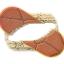
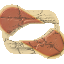
fix(core): bake_age gives the aged preview over the painting; hidden groups do not mark paint
bake_age committed the aged paint without the paper, which laid Normal over
the unaged painting turned a Multiply glaze or translucent wash into its own
colour. bakeAgedPixels keeps the paint's alpha (raised where needed) and
solves the colour over the unaged composite, in TS and Swift.

The ageing field and painted layer count walked into hidden groups, and with
layerIds used every layer; both now use only the layers that are drawn.

diff --git a/packages/core/tests/paint-time-machine.test.ts b/packages/core/tests/paint-time-machine.test.ts
@@ -164,14 +164,90 @@ describe('painting time machine: ageing, X-ray view & scraper brush', () => {
       expect(aged.data[i + 2]).toBeGreaterThan(Math.round(bottom[2] * top[2] * 255) + 8);
     }
 
-    const before = c.compositePixels({ paper: false, wet: 'dried', age: true });
+    const baked = await call('bake_age', {});
+    expect(baked.isError).toBe(false);
+    // With years back at 0, the painting with the baked layer on top is the aged preview.
+    const after = c.compositePixels({ paper: true });
+    for (const [x, y] of [[3, 4], [31, 20], [60, 44]]) {
+      const i = (y * 64 + x) * 4;
+      for (let k = 0; k < 3; k++) expect(Math.abs(after.data[i + k] - aged.data[i + k])).toBeLessThanOrEqual(1);
+    }
+  });
+
+  it('bake_age over the paper: a translucent wash and a Multiply glaze bake to what the preview showed', async () => {
+    const { c, call } = setup(64, 48);
+    const wash = c.getActiveLayer()!.id;
+    expect((await call('fill_layer', { layerId: wash, color: '#c03020', opacity: 0.4 })).isError).toBe(false);
+    const glaze = (await call('add_layer', { name: 'Glaze' })).data as { id: string };
+    expect((await call('update_layer', { layerId: glaze.id, blend: 'multiply' })).isError).toBe(false);
+    const hard = { tip: { size: 14, hardness: 1, opacity: 1, flow: 1, spacing: 0.05, pressureSize: false, pressureOpacity: false, smoothing: 0 }, grain: 0 };
+    c.paintStroke({ brushId: 'ink-pen', brush: hard, points: line(6, 24, 58, 24, 12), color: '#2050c0' });
+    expect((await call('set_age', { years: 350, varnish: 0.9, cracks: 0.6, fading: 0.7, dust: 0.5, seed: 9 })).isError).toBe(false);
+    const preview = c.compositePixels({ paper: true, age: true });
     const baked = await call('bake_age', {});
     expect(baked.isError).toBe(false);
     const layer = c.getLayer((baked.data.layer as { id: string }).id) as PaintPixelLayer;
-    for (const [x, y] of [[3, 4], [31, 20], [60, 44]]) {
-      const i = (y * 64 + x) * 4;
-      expect(readPixel(layer.surface, x, y)).toEqual([...before.data.subarray(i, i + 4)]);
+    const after = c.compositePixels({ paper: true });
+    let worst = 0;
+    let glazed = 0;
+    let translucent = 0;
+    for (let y = 0; y < 48; y++) {
+      for (let x = 0; x < 64; x++) {
+        const i = (y * 64 + x) * 4;
+        const a = readPixel(layer.surface, x, y)[3];
+        // The wash covers the canvas: the baked layer keeps the paint's alpha, not the paper's.
+        if (y < 10) expect(a).toBeGreaterThanOrEqual(101);
+        if (a === 0) continue;
+        if (a === 255) glazed++;
+        else translucent++;
+        for (let k = 0; k < 3; k++) worst = Math.max(worst, Math.abs(after.data[i + k] - preview.data[i + k]));
+      }
     }
+    expect(glazed).toBeGreaterThan(0);
+    // Most of the wash stays a translucent layer (the paper shows through it, not baked in).
+    expect(translucent).toBeGreaterThan(64 * 48 * 0.5);
+    // Solved over the paper (rounding aside), not the wash's colour on its own laid Normal on top.
+    expect(worst).toBeLessThanOrEqual(2);
+  });
+
+  it('ages only the paint that is drawn: hidden groups and unpicked layers do not mark the paper as painted', async () => {
+    const { c, call } = setup(96, 64);
+    const hard = { tip: { size: 10, hardness: 1, opacity: 1, flow: 1, spacing: 0.05, pressureSize: false, pressureOpacity: false, smoothing: 0 }, grain: 0 };
+    const shown = c.getActiveLayer()!.id;
+    c.paintStroke({ brushId: 'ink-pen', brush: hard, points: line(8, 12, 88, 12, 12), color: '#203040' });
+    const group = (await call('add_layer', { type: 'group', name: 'Hidden' })).data as { id: string };
+    const inner = (await call('add_layer', { name: 'Under', parentId: group.id })).data as { id: string };
+    expect((await call('fill_layer', { layerId: inner.id, color: '#806040' })).isError).toBe(false);
+    expect((await call('update_layer', { layerId: group.id, visible: false })).isError).toBe(false);
+    const age = { years: 450, varnish: 0.6, cracks: 1, fading: 0.4, dust: 0.3, seed: 4 };
+    expect((await call('set_age', age)).isError).toBe(false);
+    const full = { ...DEFAULT_AGE, ...age };
+    const plain = c.compositePixels({ paper: true });
+    const aged = c.compositePixels({ paper: true, age: true });
+    // Bare paper (below the stroke) ages as paper, not as paint of the hidden group.
+    let diff = 0;
+    for (let y = 30; y < 64; y++) {
+      for (let x = 0; x < 96; x++) {
+        const i = (y * 96 + x) * 4;
+        const want = agePixel(plain.data[i] / 255, plain.data[i + 1] / 255, plain.data[i + 2] / 255, x, y, full, 1, 0).map((v) => Math.round(v * 255));
+        for (let k = 0; k < 3; k++) diff = Math.max(diff, Math.abs(aged.data[i + k] - want[k]));
+      }
+    }
+    expect(diff).toBeLessThanOrEqual(1);
+
+    // Picking one layer: a visible layer left out does not mark the paper under it as painted.
+    expect((await call('update_layer', { layerId: group.id, visible: true })).isError).toBe(false);
+    const picked = c.compositePixels({ paper: true, layerIds: [shown] });
+    const pickedAged = c.compositePixels({ paper: true, layerIds: [shown], age: true });
+    let pickedDiff = 0;
+    for (let y = 30; y < 64; y++) {
+      for (let x = 0; x < 96; x++) {
+        const i = (y * 96 + x) * 4;
+        const want = agePixel(picked.data[i] / 255, picked.data[i + 1] / 255, picked.data[i + 2] / 255, x, y, full, 1, 0).map((v) => Math.round(v * 255));
+        for (let k = 0; k < 3; k++) pickedDiff = Math.max(pickedDiff, Math.abs(pickedAged.data[i + k] - want[k]));
+      }
+    }
+    expect(pickedDiff).toBeLessThanOrEqual(1);
   });
 
   it('ages light spill with the composite: an Add layer takes no dust or bleach of its own', async () => {

diff --git a/packages/core/src/paint-editor/controller.ts b/packages/core/src/paint-editor/controller.ts
@@ -222,6 +222,7 @@ import {
 } from './ferro';
 import {
   DEFAULT_AGE,
+  bakeAgedPixels,
   type AgeFieldLayer,
   isAgeActive,
   normalizeAge,
@@ -784,6 +785,16 @@ function unionRect(a: RasterRect | null, b: RasterRect | null): RasterRect | nul
 }
 
 const isPixelLayer = (l: PaintLayer | undefined): l is PaintPixelLayer => l?.type === 'pixel';
+
+/** The pixel layers that are drawn and hold paint, bottom first: visible, non-empty, not inside a hidden group. */
+function paintedPixelLayers(layers: readonly PaintLayer[], out: PaintPixelLayer[] = []): PaintPixelLayer[] {
+  for (const l of layers) {
+    if (!l.visible) continue;
+    if (l.type === 'group') paintedPixelLayers(l.children, out);
+    else if (isPixelLayer(l) && l.surface.tiles.size > 0) out.push(l);
+  }
+  return out;
+}
 
 export class PaintEditorController {
   private doc: PaintDocumentState;
@@ -5020,8 +5031,14 @@ export class PaintEditorController {
     }
     const before = this.doc;
     const bakedAge: PaintAgeSettings = { ...this.age };
-    const agedPixels = this.compositePixels({ paper: false, wet: 'dried', age: true });
-    const surface = surfaceFromPixels(agedPixels, 4);
+    // Laid over the painting as it shows once `years` is 0, the layer must give the aged preview
+    // (backlight aside, which stays on top): the paint's alpha, the colour solved over the paper.
+    const { width, height } = this.doc.canvas;
+    const all = { x: 0, y: 0, width, height };
+    const paint = this.exportCompositor.composite(this.renderLayers({ paper: false, wet: 'dried', age: false }), all, this.sources());
+    const plain = this.exportCompositor.composite(this.renderLayers({ paper: true, wet: 'dried', age: false }, false, false), all, this.sources());
+    const aged = this.exportCompositor.composite(this.renderLayers({ paper: true, wet: 'dried', age: true }, false, false), all, this.sources());
+    const surface = surfaceFromPixels({ width, height, data: bakeAgedPixels(aged, plain, paint) }, 4);
     const bounds = contentBounds(surface);
     const label = options.name?.trim() ? options.name.trim() : `Aged (${Math.round(bakedAge.years)} yr)`;
     const newLayer: PaintPixelLayer = {
@@ -6280,8 +6297,7 @@ export class PaintEditorController {
    */
   private ageNode(base: PaintLayer[], paintedLayerCount: number): AgeNode {
     const field: AgeFieldLayer[] = [];
-    for (const l of flattenLayers(base)) {
-      if (!isPixelLayer(l) || !l.visible || !l.surface.tiles.size) continue;
+    for (const l of paintedPixelLayers(base)) {
       const height = (this.liveThick?.layerId === l.id ? this.liveThick.channels : this.doc.thick?.[l.id])?.height;
       field.push({ surface: l.surface, ...(height ? { height } : {}), offset: l.offset });
     }
@@ -6353,10 +6369,10 @@ export class PaintEditorController {
     return { type: 'pixel', id: BACKLIGHT_LAYER_ID, name: 'Backlight', visible: true, opacity: 1, blend: 'linear-dodge', surface, offset: { x: 0, y: 0 } } as PaintPixelLayer;
   }
 
-  private renderLayers(options: RenderOptions, view = false): ViewLayer[] {
+  private renderLayers(options: RenderOptions, view = false, withBacklight = true): ViewLayer[] {
     const base = (options.wet ?? 'display') === 'dried' ? this.driedLayers(this.currentLayers(view)) : this.currentLayers(view);
     const useAge = (options.age ?? view) && isAgeActive(this.age);
-    const paintedCount = useAge ? Math.max(1, flattenLayers(base).filter((l) => isPixelLayer(l) && l.visible && l.surface.tiles.size > 0).length) : 1;
+    const paintedCount = useAge ? Math.max(1, paintedPixelLayers(base).length) : 1;
     let layers: PaintLayer[] = this.lightLayers(this.uvLayers(this.litLayers(this.thermoLayers(base), useAge, paintedCount)));
     if (options.layerIds) {
       const picked: PaintLayer[] = [];
@@ -6366,9 +6382,11 @@ export class PaintEditorController {
     // Ageing is one pass over the composite (paper and paint), not inside each layer: a Multiply
     // layer is not yellowed twice and an Add (light spill) layer does not take the dust and bleach.
     // A copy: `layers` can be the document's own array.
-    const top: ViewLayer[] = useAge ? [...layers, this.ageNode(base, paintedCount)] : [...layers];
+    // Only the layers drawn mark the paint (`layerIds` picks some, shown whatever their visibility).
+    const fieldBase = options.layerIds ? options.layerIds.map((id) => ({ ...(findLayer(base, id)?.layer ?? this.requireLayer(id)), visible: true }) as PaintLayer) : base;
+    const top: ViewLayer[] = useAge ? [...layers, this.ageNode(fieldBase, paintedCount)] : [...layers];
     // Backlit paper shines through everything, the aged painting included: its light goes on top.
-    const backlight = options.paper !== false && !options.layerIds ? this.backlightLayer(base) : null;
+    const backlight = withBacklight && options.paper !== false && !options.layerIds ? this.backlightLayer(base) : null;
     if (backlight) top.push(backlight);
     const under: ViewLayer[] = options.paper === false ? [] : [paperNode(uvPaper(this.doc.paper, this.uvLight), this.lighting)];
     if (options.paper !== false && this.doc.paperEffect) under.push(this.paperEffectNode(this.doc.paperEffect));

diff --git a/packages/swift/Sources/PixeratePaint/Editor/Controller.swift b/packages/swift/Sources/PixeratePaint/Editor/Controller.swift
@@ -2136,7 +2136,7 @@ public final class PaintEditorController {
     }
 
     /// `wet`: "display" shows wet paint as it is now; "dried" dries it where it is (saving and export).
-    func renderLayers(paper: Bool? = nil, layerIds: [String]? = nil, wet wetMode: String = "display", view: Bool = false, age ageOpt: Bool? = nil) -> [ViewLayer] {
+    func renderLayers(paper: Bool? = nil, layerIds: [String]? = nil, wet wetMode: String = "display", view: Bool = false, age ageOpt: Bool? = nil, backlight withBacklight: Bool = true) -> [ViewLayer] {
         let (shown, winding) = view ? vortexViewLayers(currentLayers()) : (currentLayers(), false)
         let base = wetMode == "dried" ? driedLayers(shown) : shown
         let live = liveStroke.flatMap { l -> (layerId: String, channels: ThickChannels)? in
@@ -2154,7 +2154,7 @@ public final class PaintEditorController {
             return (l.layerId, f, b.ferro.amount > 0 ? b.ferro : (doc.ferroSettings?.get(l.layerId) ?? DEFAULT_FERRO))
         }
         let useAge = (ageOpt ?? view) && isAgeActive(age)
-        let paintedCount = useAge ? Swift.max(1, flattenLayers(base).filter { $0.isPixel && $0.visible && !$0.pixelSurface.tiles.isEmpty }.count) : 1
+        let paintedCount = useAge ? Swift.max(1, paintedPixelLayers(base).count) : 1
         var layers = lightLayers(uvLayers(litLayers(thermoLayers(base), liveThick: live, liveFerro: liveFerro, useAge: useAge, paintedLayerCount: paintedCount)), liveThick: live)
         if let layerIds {
             layers = layerIds.compactMap { id in findLayer(layers, id)?.layer ?? getLayer(id) }.map { $0.copy(visible: true) }
@@ -2162,10 +2162,12 @@ public final class PaintEditorController {
         // Ageing is one pass over the composite (paper and paint), not inside each layer: a Multiply
         // layer is not yellowed twice and an Add (light spill) layer does not take the dust and bleach.
         var top = layers.map(ViewLayer.init)
-        if useAge { top.append(ageNode(base, paintedLayerCount: paintedCount, liveThick: live)) }
+        // Only the layers drawn mark the paint (`layerIds` picks some, shown whatever their visibility).
+        let fieldBase = layerIds.map { ids in ids.compactMap { id in (findLayer(base, id)?.layer ?? getLayer(id))?.copy(visible: true) } } ?? base
+        if useAge { top.append(ageNode(fieldBase, paintedLayerCount: paintedCount, liveThick: live)) }
         // Backlit paper shines through everything, the aged painting included: its light goes on top.
         let baseIsCommitted = !winding && (liveStroke?.open != true || liveStroke!.isWet) && !hasActiveBlastAnimation && (wetMode != "dried" || wet.wetLayerIds().isEmpty)
-        if paper != false && layerIds == nil, let backlight = backlightLayer(base, baseIsCommitted: baseIsCommitted, liveThick: live) { top.append(ViewLayer(backlight)) }
+        if withBacklight && paper != false && layerIds == nil, let backlight = backlightLayer(base, baseIsCommitted: baseIsCommitted, liveThick: live) { top.append(ViewLayer(backlight)) }
         let effectivePaper = uvLight.on ? uvPaper(doc.paper, uvLight) : doc.paper
         var under: [ViewLayer] = paper == false ? [] : [ViewLayer.paper(effectivePaper, light: lighting)]
         if paper != false, let p = doc.paperEffect { under.append(paperEffectNode(p)) }
@@ -2174,10 +2176,22 @@ public final class PaintEditorController {
         return out
     }
 
+    /// The pixel layers that are drawn and hold paint, bottom first: visible, non-empty, not inside a hidden group.
+    func paintedPixelLayers(_ layers: [PaintLayer]) -> [PaintLayer] {
+        var out: [PaintLayer] = []
+        func walk(_ list: [PaintLayer]) {
+            for l in list where l.visible {
+                if let c = l.children { walk(c) } else if l.isPixel && !l.pixelSurface.tiles.isEmpty { out.append(l) }
+            }
+        }
+        walk(layers)
+        return out
+    }
+
     /// Time-machine ageing as one pass over the composite (above the painted layers, below the backlight); `base` gives where the paint is.
     func ageNode(_ base: [PaintLayer], paintedLayerCount: Int, liveThick: (layerId: String, channels: ThickChannels)? = nil) -> ViewLayer {
         var field: [AgeFieldLayer] = []
-        for l in flattenLayers(base) where l.isPixel && l.visible && !l.pixelSurface.tiles.isEmpty {
+        for l in paintedPixelLayers(base) {
             let ch = liveThick?.layerId == l.id ? liveThick!.channels : doc.thick?.get(l.id)
             field.append(AgeFieldLayer(surface: l.pixelSurface, height: ch?.height, offset: l.pixelOffset))
         }

diff --git a/apps/demo/src/parityFeatures.generated.ts b/apps/demo/src/parityFeatures.generated.ts
@@ -2208,7 +2208,7 @@ export const PARITY_AREAS: ParityArea[] = [
         "swift": "✅ `AntimatterStrokeDriver`, `AntimatterSettings`, `DEFAULT_ANTIMATTER`, `normalizeAntimatter`, `AntimatterStats`; Antimatter controls in `PaintBrushPanel`; the view-only blast animation (`duration`): `AntimatterStrokeDriver.renderAtTime` / `rebaseTime` frames and `PaintEditorController.tickBlastAnimation`, played over the canvas by `PaintEditorView`'s clock"
       },
       {
-        "feature": "Painting Time Machine: Ageing, X-Ray & Scraper (non-destructive museum ageing preview `doc.age` (`years` 0..500, `varnish`, `cracks`, `fading`, `dust`, `seed`) applied in `renderLayers` with deterministic pigment lightfastness fading by hue, yellowed varnish absorption, seeded Voronoi + stress craquelure crack network that scales with layer count and impasto height and carves relief into `lightTile`, and low-frequency dust grain; `bake_age` commits the aged look into a new layer as one undo step; X-ray view (`render_xray`, `set_xray_view`) that composites every pixel layer including hidden ones by `opacity × (thickHeight + lightnessWeight)` so lead white and thick paint read bright and buried pentimenti show through, optionally after `strokes: k` via `replayPainting`; `scraper` brush engine (`marks.kind: 'scraper'`, preset `paint-scraper`) that excavates alpha and thick height from the topmost visible unlocked paint layer and carries remaining depth down through layers below, stopping at locked layers or the paper; agent tools `set_age`, `get_age`, `bake_age`, `render_xray`, `set_xray_view`)",
+        "feature": "Painting Time Machine: Ageing, X-Ray & Scraper (non-destructive museum ageing preview `doc.age` (`years` 0..500, `varnish`, `cracks`, `fading`, `dust`, `seed`) applied in `renderLayers` as one compositor pass over the composite (paper, blend modes and light spill included) with deterministic pigment lightfastness fading by hue, yellowed varnish absorption, seeded Voronoi + stress craquelure crack network that scales with layer count and impasto height and carves relief into `lightTile`, and low-frequency dust grain; `bake_age` commits the aged look into a new layer as one undo step; X-ray view (`render_xray`, `set_xray_view`) that composites every pixel layer including hidden ones by `opacity × (thickHeight + lightnessWeight)` so lead white and thick paint read bright and buried pentimenti show through, optionally after `strokes: k` via `replayPainting`; `scraper` brush engine (`marks.kind: 'scraper'`, preset `paint-scraper`) that excavates alpha and thick height from the topmost visible unlocked paint layer and carries remaining depth down through layers below, stopping at locked layers or the paper; agent tools `set_age`, `get_age`, `bake_age`, `render_xray`, `set_xray_view`)",
         "core": "`DEFAULT_AGE`, `normalizeAge`, `craquelureAt`, `agePixel`, `renderXrayPixels`, `ScraperStrokeDriver`, `createTimeMachineTools`, `AGE_SLIDERS` (`/paint-editor`)",
         "react": "`<TimeMachinePanel>` (in `<PaperPanel>`) (`/paint-editor`)",
         "svelte": "`<TimeMachinePanel>` (in `<PaperPanel>`) (`/paint-editor`)",

diff --git a/packages/swift/Sources/PixeratePaint/Editor/Age.swift b/packages/swift/Sources/PixeratePaint/Editor/Age.swift
@@ -402,6 +402,37 @@ public func agePaperTile(
     return out
 }
 
+/**
+ * The pixels `bake_age` commits (`bakeAgedPixels`): a layer that, laid Normal over the painting as it
+ * will show without ageing (`plain`, opaque), gives the aged composite (`aged`). Its alpha is the
+ * paint's own (`paint`, raised where the ageing needs more to reach), so bare paper stays clear, and
+ * its colour solves `plain · (1 − a) + colour · a = aged`.
+ */
+public func bakeAgedPixels(_ aged: [UInt8], _ plain: [UInt8], _ paint: [UInt8]) -> [UInt8] {
+    var out = [UInt8](repeating: 0, count: paint.count)
+    var i = 0
+    while i < paint.count {
+        var a = Int(paint[i + 3])
+        if a > 0 {
+            var k = 0
+            while k < 3 && a < 255 {
+                let v = Double(aged[i + k]), u = Double(plain[i + k])
+                let need = v < u ? (255 * (u - v)) / u : v > u ? (255 * (v - u)) / (255 - u) : 0
+                if need > Double(a) { a = Swift.min(255, Int(need.rounded(.up))) }
+                k += 1
+            }
+            out[i + 3] = UInt8(a)
+            for k in 0..<3 {
+                if a == 255 { out[i + k] = aged[i + k]; continue }
+                let c = JS.round((Double(aged[i + k]) * 255 - Double(plain[i + k]) * Double(255 - a)) / Double(a))
+                out[i + k] = UInt8(Swift.max(0, Swift.min(255, c)))
+            }
+        }
+        i += 4
+    }
+    return out
+}
+
 /// A painted layer as the composite ageing pass reads it: its alpha marks paint, its thick height feeds the cracks.
 public struct AgeFieldLayer {
     /// The layer's RGBA pixels (only alpha is read).
@@ -877,8 +908,15 @@ extension PaintEditorController {
         }
         let before = doc
         let bakedAge = age
-        let agedPixels = compositePixels(paper: false, wet: "dried", age: true)
-        let surface = surfaceFromPixels(width: agedPixels.width, height: agedPixels.height, data: agedPixels.data, channels: 4)
+        // Laid over the painting as it shows once `years` is 0, the layer must give the aged preview
+        // (backlight aside, which stays on top): the paint's alpha, the colour solved over the paper.
+        let w = doc.canvas.width, h = doc.canvas.height
+        let all = RasterRect(x: 0, y: 0, width: w, height: h)
+        let compositor = createPaintCompositor()
+        let paint = compositor.composite(renderLayers(paper: false, wet: "dried", age: false), all, sources())
+        let plain = compositor.composite(renderLayers(paper: true, wet: "dried", age: false, backlight: false), all, sources())
+        let aged = compositor.composite(renderLayers(paper: true, wet: "dried", age: true, backlight: false), all, sources())
+        let surface = surfaceFromPixels(width: w, height: h, data: bakeAgedPixels(aged, plain, paint), channels: 4)
         let bounds = contentBounds(surface)
         let trimmed = name?.trimmingCharacters(in: .whitespacesAndNewlines) ?? ""
         let label = !trimmed.isEmpty ? trimmed : "Aged (\(Int(JS.round(bakedAge.years))) yr)"

diff --git a/packages/core/src/paint-editor/age.ts b/packages/core/src/paint-editor/age.ts
@@ -481,6 +481,37 @@ export function ageCompositeRegion(
 }
 
 /**
+ * The pixels `bake_age` commits: a layer that, laid Normal over the painting as it will show
+ * without ageing (`plain`, opaque: paper and paint), gives the aged composite (`aged`). Its alpha
+ * is the paint's own (`paint`, the composite without the paper; raised where the ageing needs more
+ * to reach), so bare paper stays clear, and its colour solves `plain · (1 − a) + colour · a = aged`,
+ * so a translucent wash or a Multiply /
+ * Add layer over the paper bakes to what the preview shows rather than to its colour on its own.
+ * All three are canvas-sized RGBA (straight alpha).
+ */
+export function bakeAgedPixels(aged: Uint8ClampedArray, plain: Uint8ClampedArray, paint: Uint8ClampedArray): Uint8ClampedArray {
+  const out = new Uint8ClampedArray(paint.length);
+  for (let i = 0; i < paint.length; i += 4) {
+    let a = paint[i + 3];
+    if (a === 0) continue;
+    // A thin layer can only move the pixel so far: raise the alpha to what the change needs
+    // (dark cracks under a light wash), so the colour stays within 0..255 and the result is exact.
+    for (let k = 0; k < 3 && a < 255; k++) {
+      const v = aged[i + k];
+      const u = plain[i + k];
+      const need = v < u ? (255 * (u - v)) / u : v > u ? (255 * (v - u)) / (255 - u) : 0;
+      if (need > a) a = Math.min(255, Math.ceil(need));
+    }
+    out[i + 3] = a;
+    for (let k = 0; k < 3; k++) {
+      // Uint8ClampedArray clamps to 0..255 (and rounds half to even, so round first as Swift does).
+      out[i + k] = a === 255 ? aged[i + k] : Math.round((aged[i + k] * 255 - plain[i + k] * (255 - a)) / a);
+    }
+  }
+  return out;
+}
+
+/**
  * Per-layer cache of aged colour tiles.
  * @deprecated The editor ages the composite in one pass (`ageCompositeRegion`); ageing each layer
  * yellows Multiply / Overlay layers twice and brightens Add layers.

diff --git a/README.md b/README.md
@@ -574,7 +574,7 @@ Every feature is available from core and from both framework packages, except wh
 | Ferrofluid Paint & Magnets (a per-layer liquid ferrofluid channel `doc.ferro[layerId]` laid by brushes with the `ferro` facet (`amount`, `wavelength`, `threshold`; built-in presets `ferrofluid` and `ferro-ink`); document magnets `doc.magnets` (`x`, `y`, `strength` in `-1..1`, `radius` in px) that deterministically advect liquid ferrofluid toward magnets when placed or moved and pull it into analytical hexagonal Rosensweig relief spikes where `|B| > threshold`, tilted along the magnetic field and shaded by `LitCache` / `lightTile` with glossy metallic material; `cure_ferrofluid` bakes the active spikes into permanent impasto relief and clears the liquid channel as one undo step; saved, undone and replayed; agent tools `add_magnet`, `update_magnet`, `remove_magnets`, `list_magnets`, `get_ferrofluid`, `cure_ferrofluid`) | `ferroFieldAt`, `ferroSpikeHeightAt`, `advectFerro`, `bakeFerroIntoThick`, `createFerroTools` (`/paint-editor`) | `<FerroPanel>` (in `<PaperPanel>`), magnet handles in `<PaintCanvas>` (`/paint-editor`) | `<FerroPanel>` (in `<PaperPanel>`), magnet handles in `<PaintCanvas>` (`/paint-editor`) | ✅ `FerroSettings`, `PaintMagnet`, `ferroFieldAt`, `ferroSpikeHeightAt`, `advectFerro`, `bakeFerroIntoThick`; `PaintEditorController` `addMagnet`, `updateMagnet`, `removeMagnets`, `listMagnets`, `getFerrofluid`, `cureFerrofluid`; `PaintFerroPanel` (in `PaintPaperPanel`) and magnet guides in `PaintCanvasView` |
 | Biopaint (Mycelial Ink & Living Cultures) (a `culture` brush facet (`species: 'mycelium'`, `reach`, `branching`, `wander`, `appetite`, `digest`, `fuse`, `thickness`, `glow`; built-in presets `mycelial-ink`, `rot`, `foxfire`) that seeds spores along committed strokes into per-layer `doc.cultures[layerId]` (`tick`, `nextId`, living `tips`, 1-channel `occupancy`, `segmentsTotal`, `status`); deterministic fixed-point integer simulation where hyphal tips sense ahead, steer toward existing paint (`appetite`), fade what they eat (`digest`), carry its colour along the network, branch into tapering filaments, fuse on contact (`fuse`), and write bioluminescence to `doc.light` (`glow`); live clock playback (`playCultures`), `growWhileClosed` catch-up on reopen (`catchUpCultures`, run on mount and on `onDocumentReplaced` by `startCultureCatchUp`), and exact scaled replay (`'culture-grow'` paint events); agent tools `get_cultures`, `grow_cultures`, `remove_cultures`, `set_culture_options`) | `seedCultureFromStroke`, `stepLayerCulture`, `applyCultureGrowReplay`, `CULTURE_SLIDERS`, `createCultureTools` (`/paint`, `/paint-editor`) | `<CulturePanel>` (in `<PaperPanel>`), live playback in `<PaintCanvas>`, `culture` controls in `<BrushEditor>` (`/paint-editor`) | `<CulturePanel>` (in `<PaperPanel>`), live playback in `<PaintCanvas>`, `culture` controls in `<BrushEditor>` (`/paint-editor`) | `CultureSettings`, `LayerCultureState`, `seedCultureFromStroke`, `stepLayerCulture`, `applyCultureGrowReplay`; `PaintEditorController` `getCultures`, `growCultures`, `removeCultures`, `setCultureOptions`, `catchUpCultures` (run when `PaintEditorView` appears and on `onDocumentReplaced`); `PaintCulturePanel` (in `PaintPaperPanel`); live playback (`playCultures` → `PaintCulturePlayer`, run by `PaintEditorModel.runCultureClock` in `PaintEditorView`, one "Culture growth" undo step per run, with pause and speed) |
 | Antimatter Paint (a `marks.kind: "antimatter"` brush engine that measures quantised coverage-weighted combined alpha (`1 - Π(1 - α_i · opacity_i)`) across all visible layers, firing noise-edged radial blasts that combine by maximum in a per-stroke heat field so overlapping blasts never double-invert; inverts core colours (`rgb` or `oklab`), annihilates alpha (respecting transparency lock), burns a sooty scorch ring, clears `doc.light`, carves impasto relief craters (`doc.thick`), and launches white-hot sparks cooling to the brush colour on the active layer; dries visible wet layers and commits every modified visible editable pixel layer in a single undo step with `RecordedStroke.targets` for exact replay; view-only blast expansion animation (`duration`); presets `antimatter`, `antimatter-flare`, `antimatter-charge`; `antimatter` stats in `PaintStrokeResult`) | `AntimatterStrokeDriver`, `ANTIMATTER_SLIDERS`, `DEFAULT_ANTIMATTER`, `normalizeAntimatter`, `AntimatterSettings`, `AntimatterStats` (`/paint-editor`) | Antimatter controls in `<BrushPanel>`'s `<BrushEditor>`, blast playback in `<PaintCanvas>` (`/paint-editor`) | Antimatter controls in `<BrushPanel>`'s `<BrushEditor>`, blast playback in `<PaintCanvas>` (`/paint-editor`) | ✅ `AntimatterStrokeDriver`, `AntimatterSettings`, `DEFAULT_ANTIMATTER`, `normalizeAntimatter`, `AntimatterStats`; Antimatter controls in `PaintBrushPanel`; the view-only blast animation (`duration`): `AntimatterStrokeDriver.renderAtTime` / `rebaseTime` frames and `PaintEditorController.tickBlastAnimation`, played over the canvas by `PaintEditorView`'s clock |
-| Painting Time Machine: Ageing, X-Ray & Scraper (non-destructive museum ageing preview `doc.age` (`years` 0..500, `varnish`, `cracks`, `fading`, `dust`, `seed`) applied in `renderLayers` with deterministic pigment lightfastness fading by hue, yellowed varnish absorption, seeded Voronoi + stress craquelure crack network that scales with layer count and impasto height and carves relief into `lightTile`, and low-frequency dust grain; `bake_age` commits the aged look into a new layer as one undo step; X-ray view (`render_xray`, `set_xray_view`) that composites every pixel layer including hidden ones by `opacity × (thickHeight + lightnessWeight)` so lead white and thick paint read bright and buried pentimenti show through, optionally after `strokes: k` via `replayPainting`; `scraper` brush engine (`marks.kind: 'scraper'`, preset `paint-scraper`) that excavates alpha and thick height from the topmost visible unlocked paint layer and carries remaining depth down through layers below, stopping at locked layers or the paper; agent tools `set_age`, `get_age`, `bake_age`, `render_xray`, `set_xray_view`) | `DEFAULT_AGE`, `normalizeAge`, `craquelureAt`, `agePixel`, `renderXrayPixels`, `ScraperStrokeDriver`, `createTimeMachineTools`, `AGE_SLIDERS` (`/paint-editor`) | `<TimeMachinePanel>` (in `<PaperPanel>`) (`/paint-editor`) | `<TimeMachinePanel>` (in `<PaperPanel>`) (`/paint-editor`) | ✅ `PaintAgeSettings`, `DEFAULT_AGE`, `craquelureAt`, `agePixel`, `renderXrayPixels`, `ScraperStrokeDriver`; `PaintEditorController` `setAge`, `getAge`, `bakeAge`, `renderXray`, `setXrayView`; `PaintTimeMachinePanel` (in `PaintPaperPanel`) |
+| Painting Time Machine: Ageing, X-Ray & Scraper (non-destructive museum ageing preview `doc.age` (`years` 0..500, `varnish`, `cracks`, `fading`, `dust`, `seed`) applied in `renderLayers` as one compositor pass over the composite (paper, blend modes and light spill included) with deterministic pigment lightfastness fading by hue, yellowed varnish absorption, seeded Voronoi + stress craquelure crack network that scales with layer count and impasto height and carves relief into `lightTile`, and low-frequency dust grain; `bake_age` commits the aged look into a new layer as one undo step; X-ray view (`render_xray`, `set_xray_view`) that composites every pixel layer including hidden ones by `opacity × (thickHeight + lightnessWeight)` so lead white and thick paint read bright and buried pentimenti show through, optionally after `strokes: k` via `replayPainting`; `scraper` brush engine (`marks.kind: 'scraper'`, preset `paint-scraper`) that excavates alpha and thick height from the topmost visible unlocked paint layer and carries remaining depth down through layers below, stopping at locked layers or the paper; agent tools `set_age`, `get_age`, `bake_age`, `render_xray`, `set_xray_view`) | `DEFAULT_AGE`, `normalizeAge`, `craquelureAt`, `agePixel`, `renderXrayPixels`, `ScraperStrokeDriver`, `createTimeMachineTools`, `AGE_SLIDERS` (`/paint-editor`) | `<TimeMachinePanel>` (in `<PaperPanel>`) (`/paint-editor`) | `<TimeMachinePanel>` (in `<PaperPanel>`) (`/paint-editor`) | ✅ `PaintAgeSettings`, `DEFAULT_AGE`, `craquelureAt`, `agePixel`, `renderXrayPixels`, `ScraperStrokeDriver`; `PaintEditorController` `setAge`, `getAge`, `bakeAge`, `renderXray`, `setXrayView`; `PaintTimeMachinePanel` (in `PaintPaperPanel`) |
 | Vortex Paint (a `vortex` mark brush (`marks.kind: 'vortex'`, `engine: 'vortex'`; `reach`, `turns`, `pull`, `direction`, `ink`, `duration`) where the drawn stroke defines the shape of a vortex — a tap creates a round whirlpool (`'point'`), an open curve wraps paint around it like a racetrack (`'open'`), and a closed loop uses signed Euclidean distance so paint inside and outside winds coherently (`'closed'`); Lamb-Oseen tangential spin plus inward pull integrated in fixed sub-steps into a single backward displacement field (`integrateVelocityField`) and resampled once with premultiplied bilinear sampling (`warpTiledSurfaceRgba`) across RGBA, impasto relief, light, ferrofluid, fluorescent and thermochromic channels, with optional pre-warp ink and view-only winding animation; on wet layers (`wet-vortex` or any vortex brush on wet paint) `WetWorld.swirl` spins and lifts the fluid directly; mirrored symmetry copies invert spin direction; presets Vortex, Ink vortex, Whirlpool and Wet vortex; `vortex` summary on `paint_stroke` / `stroke_path`) | `VortexStrokeDriver`, `buildVortexDisplacement`, `buildVortexVelocityField`, `vortexGuideSegments`, `VORTEX_SLIDERS`, `DEFAULT_VORTEX`, `normalizeVortex` (`/paint-editor`) & `integrateVelocityField`, `warpTiledSurfaceRgba` (`/paint`) | `<BrushPanel>` (`<BrushEditor>`) & vortex guide in `<PaintCanvas>` | `<BrushPanel>` (`<BrushEditor>`) & vortex guide in `<PaintCanvas>` | ✅ `VortexSettings`, `DEFAULT_VORTEX`, `VortexStrokeSummary`, `WetWorld.swirl`, `vortexGuideSegments`; vortex sliders and direction picker in `PaintBrushPanel`, vortex guide (with symmetry copies) in `PaintCanvasView`; the view-only winding animation (`duration`): `integrateVelocityFieldFrames` keyframes blended by `vortexWindingField` (`VortexWindingAnimation`), played on the editor clock (`PaintEditorModel.tick` → `stepVortexAnimations`) in `PaintCanvasView`, ending on the committed pixels and dropped by undo, redo or another stroke on the layer |
 
 </details>

diff --git a/GOTCHAS.md b/GOTCHAS.md
@@ -4389,4 +4389,4 @@ All contributors and AI assistants should check this file before starting work a
 
 - **Issue / Symptom**: With the time machine on (`set_age`), a Multiply or Overlay layer came out yellower and darker than the same colours painted flat, and an Add (Linear Dodge) light-spill layer lifted dark paper well above its unaged glow. Normal layers looked right.
 - **Root Cause**: Ageing (`agePixel`: fade, varnish, cracks, dust) ran inside every visible pixel layer before compositing. Varnish multiplies blue down, so a Multiply layer over an aged ground absorbed it twice; fading and dust pull colours toward fixed offsets, which an Add layer then *added* to the paper.
-- **Solution / Workaround**: Ageing is a compositor filter node at the top of the painting (`ageNode` / `ViewLayer.age`, `ageCompositeRegion` in TS `paint-editor/age.ts` and Swift `Age.swift`), above the painted layers and light spill and below the backlight. The paper node no longer ages itself (that would age the paper twice). The node carries the visible painted layers as a field: where any of them has alpha the cracks use the painted layer count and the tallest thick height, and bare paper ages as one layer with no impasto (what the paper node did). The node's `layerKey` is only the age settings and layer count, so a stroke re-ages only the tiles it touches; a thick-height change that leaves a layer's (lit) pixels unchanged would not re-age, which does not happen in practice. Crack relief is still carved per layer in `litLayers`. `bake_age` composites with `age: true, paper: false`, so it commits exactly the preview's aged paint. When building the stack in `renderLayers`, copy the layer list before pushing the age node or backlight: without any light, thermo or UV pass it is `this.doc.layers` itself, and pushing onto it puts the backlight into the document.
+- **Solution / Workaround**: Ageing is a compositor filter node at the top of the painting (`ageNode` / `ViewLayer.age`, `ageCompositeRegion` in TS `paint-editor/age.ts` and Swift `Age.swift`), above the painted layers and light spill and below the backlight. The paper node no longer ages itself (that would age the paper twice). The node carries the visible painted layers as a field: where any of them has alpha the cracks use the painted layer count and the tallest thick height, and bare paper ages as one layer with no impasto (what the paper node did). The node's `layerKey` is only the age settings and layer count, so a stroke re-ages only the tiles it touches; a thick-height change that leaves a layer's (lit) pixels unchanged would not re-age, which does not happen in practice. Crack relief is still carved per layer in `litLayers`. The field and the painted layer count come from `paintedPixelLayers` (visible, non-empty, not inside a hidden group; with `layerIds`, only the picked layers): `flattenLayers` walks into hidden groups, and their paint is in no signature below the node, so it marked paper as paint and never re-aged when it changed. `bake_age` cannot just commit the aged paint without the paper: laid Normal over the unaged painting, a Multiply or Add layer bakes to its own colour and a translucent wash loses the paper's ageing under it. `bakeAgedPixels` (TS `age.ts`, Swift `Age.swift`) keeps the paint's alpha (raised where the change needs more, such as a dark crack under a light wash) and solves the colour so that over the unaged composite (paper included, backlight left out, as it stays on top) it gives the aged one; bare paper stays clear. When building the stack in `renderLayers`, copy the layer list before pushing the age node or backlight: without any light, thermo or UV pass it is `this.doc.layers` itself, and pushing onto it puts the backlight into the document.

diff --git a/packages/core/skills/pixerate-paint-editor/references/time-machine.md b/packages/core/skills/pixerate-paint-editor/references/time-machine.md
@@ -19,7 +19,7 @@ Ageing is **one pass over the finished composite** (paper, effect paper and ever
 
 Like `set_lighting` and `set_uv_light`, `set_age` is document state (`SET` semantics, not an undo step) and is saved with the document. Undoing or redoing another step (a stroke, a fill) keeps the current age; only undoing `bake_age` brings back the `years` it reset. `RenderOptions.age` is on by default in the viewport and `render_preview`, and opt-in (`age: true`) for exports.
 
-Call `bake_age` to commit the aged composite (the paint without the paper, exactly as the preview shows it) into a new pixel layer (`"Aged (<years> yr)"`) at the top of the stack as a single undo step and reset `years` to `0`.
+Call `bake_age` to commit the aged look into a new pixel layer (`"Aged (<years> yr)"`) at the top of the stack as a single undo step and reset `years` to `0`. Over the painting below it, the layer gives exactly what the preview showed where there is paint (Multiply glazes, light spill and translucent washes included: its colours are solved over the paper, so do not move it or hide the layers under it and expect the same look); bare paper is left clear and is unaged once `years` is `0`. Hidden layers, and layers inside hidden groups, are not part of the painting for ageing or baking.
 
 ## 2. X-ray view (`render_xray`, `set_xray_view`)
 

diff --git a/.changeset/age-composite-pass.md b/.changeset/age-composite-pass.md
@@ -3,4 +3,4 @@
 "@pixerate/swift": patch
 ---
 
-Paint time machine: ageing (`set_age`: varnish, fading, cracks, dust) is now one pass over the composite instead of inside each layer, in TypeScript and Swift. Multiply and Overlay layers are no longer yellowed twice, and light-spill (Linear Dodge) layers no longer pick up dust and bleach and brighten. Normal layers age as before, and `bake_age` commits the same aged composite the preview shows.
+Paint time machine: ageing (`set_age`: varnish, fading, cracks, dust) is now one pass over the composite instead of inside each layer, in TypeScript and Swift. Multiply and Overlay layers are no longer yellowed twice, and light-spill (Linear Dodge) layers no longer pick up dust and bleach and brighten. Normal layers age as before. `bake_age` now bakes a layer that, over the painting, gives exactly what the preview showed (a Multiply glaze or a translucent wash over the paper no longer bakes to its own colour), and paint in hidden groups no longer counts as painted for the cracks.
